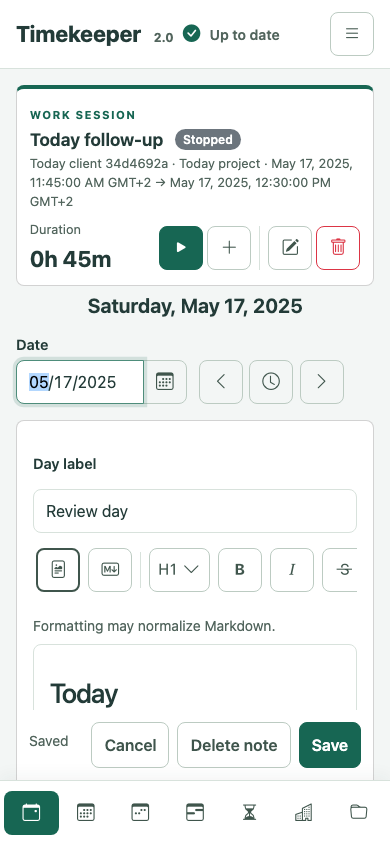
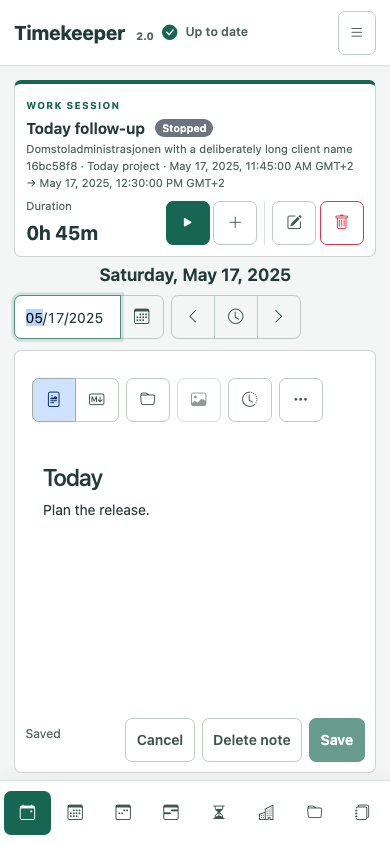
Refresh Today screenshots and validate running-session layout

diff --git a/server/web/tests/today.spec.js b/server/web/tests/today.spec.js
@@ -245,7 +245,7 @@ for(const locale of ['en-GB','nb-NO'])test(`Today layout aligns its sidebar and 
       for(const button of await navigator.getByRole('button').all()){const box=await button.boundingBox();expect(box.width).toBeGreaterThanOrEqual(44);expect(box.height).toBeGreaterThanOrEqual(44);}
     };
     for(const [width,font,heading]of [[1440,14],[1146,14],[1051,14],[1050,14],[768,18],[650,14],[390,14],[320,14],[1051,14],[1051,14,'3rem'],[320,20]])await check(width,font,heading);
-    running=await(await api(request,'POST','/work-sessions',{summary:'Running session with a deliberately long title to exercise wrapping',clientId:null,projectId:null,start:new Date(Date.now()-3600000).toISOString(),end:null})).json();
+    running=await(await api(request,'POST','/work-sessions',{summary:'Running session with a deliberately long title to exercise wrapping',start:new Date(Date.now()-3600000).toISOString(),end:null})).json();
     await page.locator('#refresh').click();await expect(page.locator('#session-stop')).toBeVisible();
     for(const [width,font]of [[1440,14],[1051,20],[390,14]])await check(width,font);
     await captureScreenshot(page,{path:`test-results/today-layout-${locale}-mobile.png`});
